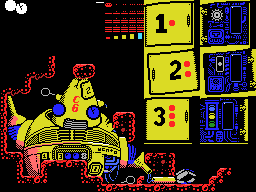
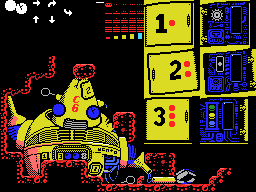
interaction with panel 1 in mars robot works

diff --git a/java/src/xspelunker2/Text.java b/java/src/xspelunker2/Text.java
@@ -731,6 +731,9 @@ public class Text {
         addLineSafe(lines_with_constant_page4, "but it's locked.", "MARS_ROBOT_PANEL_OFF_2", 12);
         addLineSafe(lines_with_constant_page4, "The key fits! The robot is activating!", "MARS_ROBOT_TURN_ON", 112);
         addLineSafe(lines_with_constant_page4, "Energy... critical... please help...: TZ'AK HA' pressure to... 300 and purge pipes using the... YAX switch. KA bring down to 100. TZ'AK IK' pressure to... 200. KA... reboot system with K'AN... switch.", "MARS_ROBOT_REQUEST", 112);
+        addLineSafe(lines_with_constant_page4, "The panel is unlocked!", "MARS_ROBOT_PANEL_ON_1", 12);
+        addLineSafe(lines_with_constant_page4, "Back", "BACK_PAGE4", 16);
+
                 
         // Ending C:
         // First shared part:

diff --git a/java/src/xspelunker2/GenerateSprites.java b/java/src/xspelunker2/GenerateSprites.java
@@ -220,6 +220,13 @@ public class GenerateSprites {
         data.addAll(extractSprite(sourceImage, 0, 0, 15));
         data.addAll(extractSprite(sourceImage, 16, 0, 15));
         
+        // pointers:
+        data.addAll(extractSprite(sourceImage, 32, 0, 15));
+        data.addAll(extractSprite(sourceImage, 48, 0, 15));
+        data.addAll(extractSprite(sourceImage, 64, 0, 15));
+        data.addAll(extractSprite(sourceImage, 32, 16, 15));
+        data.addAll(extractSprite(sourceImage, 48, 16, 15));
+        
         if (data.size() > 40 * 32) {
             throw new Exception("More NPC sprites than the engine can handle!");
         }
